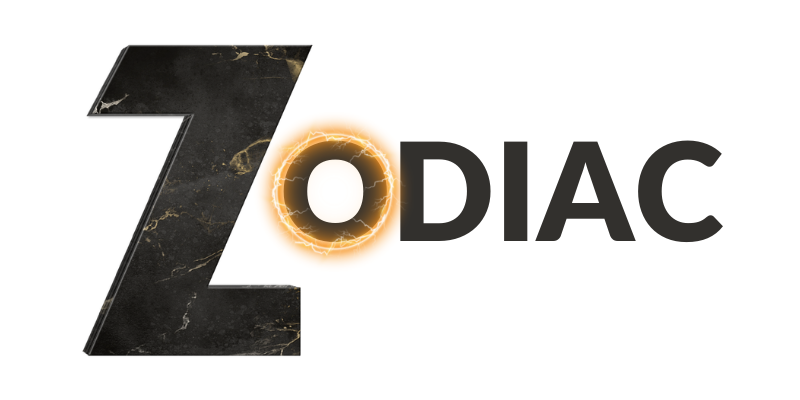
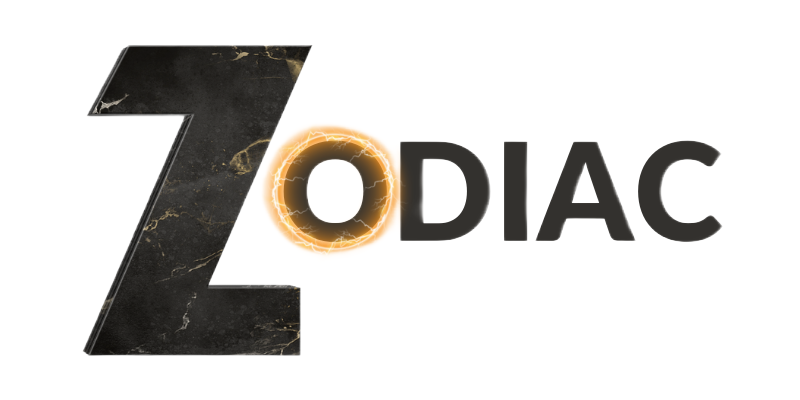
updated the designs

diff --git a/index.html b/index.html
@@ -6,106 +6,13 @@
     <link rel="stylesheet" href="style.css">
     <title>Zodiac</title>
     <style>
-        * {
-            box-sizing: border-box;
-            margin: 0;
-            padding: 0;
-            line-height: 1.5;
-            text-decoration: none;
-            list-style: none;
-            color: #ffffff;
-        }
-        body {
-            font-family: angie, sans-serif;
-            font-size: 1rem;
-            overflow-x: hidden;
-        }
-        /* Header */
-        .head-container {
-            background: url(image/background.jpg);
-            background-repeat: no-repeat;
-            background-position: center;
-            background-attachment: fixed;
-            background-size: cover;
-            min-height: 100vh;
-        }
-        .header {
-            display: flex;
-            justify-content: space-between;
-            align-items: center;
-            padding: 10px;
-            width: 90%;
-            margin: 0 auto;
-        }
-        .header ul {
-            display: flex;
-            justify-content: space-between;
-            align-items: center;
-        }
-        .header ul li {
-            margin-left: 20px;
-        }
-        .header ul li:first-child {
-            margin-left: 0;
-        }
-        .header ul li a:hover {
-            text-decoration: underline;
-            border: none;
-        }
-        #active {
-            text-decoration: underline;
-        }
-        /* Content Header */
-        .header-content {
-            display: flex;
-            flex-direction: column;
-            justify-content: center;
-            align-items: center;
-            text-align: center;
-            padding: 50px 20px;
-        }
-        .side-right img {
-            max-width: 100%;
-            width: 50%;
-            height: auto;
-            border-radius: 50%;
-        }
-        /* Footer */
-        .footer {
-            background-color: #525252;
-            border: 3px solid #ffffff;
-            padding: 20px 0;
-            text-align: center;
-        }
-        .foot {
-            display: flex;
-            flex-wrap: wrap;
-            justify-content: space-evenly;
-            align-items: center;
-            text-align: center;
-            max-width: 1200px;
-            margin: 0 auto;
-        }
-        .foot > div {
-            margin-bottom: 20px;
-        }
-        .foot span {
-            font-size: 2rem;
-        }
-        .foot p {
-            margin-top: 10px;
-        }
-        .smart, .fast, .perfect {
-            width: 300px;
-            max-width: 100%;
-            margin: 0 10px;
-        }
+        
     </style>
 </head>
 <body>
     <div class="head-container">
         <header class="header">
-            <img class="logo" src="image/ZODIAC.png" alt="ZODIAC" style="width: auto;height: 60px;object-fit: cover;">
+            <img class="logo" src="image/ZODIAC.png" alt="ZODIAC">
             <ul>
                 <li><a id="active" href="#">Home</a></li>
                 <li><a href="#">Portfolio</a></li>
@@ -118,8 +25,12 @@
             </div>
             <div class="side-left">
                 <p>Hi, I'm Christian</p>
-                <h1>I'm Professional Web/Software Developer & Wordpress Developer</h1>
-                <span>The pioneer of the past & future</span>
+                <h1>I'm a Professional Web/Software Developer & Wordpress Developer</h1>
+                <span>The pioneer of the past & the future</span>
+            </div>
+            <div class="extra-button">
+                <button>Hire Me</button>
+                <button>Download CV</button>
             </div>
         </div>
     </div>
@@ -136,6 +47,16 @@
             <div class="perfect">
                 <span>&#x26A1;</span>
                 <p>I possess the expertise and dedication to construct projects of flawless precision. With every endeavor, I strive for perfection, delivering results that exceed expectations.</p>
+            </div>
+        </div>
+        <div class="foot-image">
+            <div class="foot-img">
+                <img src="image/foot-image.jpg" alt="Working">
+            </div>
+            <div class="foot-service">
+                <span>My Services</span>
+                <h3>What do I do?</h3>
+                <p>I'f you'll hire me as your developer opr designer you will experience having a great developer and Professional projects for your business</p>
             </div>
         </div>
     </div>

diff --git a/style.css b/style.css
@@ -1,4 +1,133 @@
 @font-face {
     font-family: angie;
     src: url(fonts/angie.otf);
+}@font-face {
+    font-family: cortah;
+    src: url(fonts/crotah.ttf);
+}@font-face {
+    font-family: baufra;
+    src: url(fonts/baufra-medium.ttf);
 }
+* {
+    box-sizing: border-box;
+    margin: 0;
+    padding: 0;
+    line-height: 1.5;
+    text-decoration: none;
+    list-style: none;
+}
+body {
+    font-family: angie, sans-serif;
+    font-size: 1rem;
+    overflow-x: hidden;
+    color: #cfcece;
+}
+/* Header */
+.head-container {
+    background: url(image/background.jpg);
+    background-repeat: no-repeat;
+    background-position: center;
+    background-attachment: fixed;
+    background-size: cover;
+    min-height: 100vh;
+}
+.header {
+    display: flex;
+    justify-content: space-between;
+    align-items: center;
+    padding: 10px;
+    width: 90%;
+    margin: 0 auto;
+}
+.header ul {
+    display: flex;
+    justify-content: space-between;
+    align-items: center;
+}
+.header ul li {
+    margin-left: 50px;
+}
+.header ul li:first-child {
+    margin-left: 0;
+}.header ul li a{
+    color: #ffffff;
+}
+.header ul li a:hover {
+    text-decoration: underline;
+    border: none;
+}
+#active {
+    text-decoration: underline;
+}.logo{
+    width: auto;
+    height: 60px;
+    object-fit: cover;
+    background-color: #ffffff;
+    border-radius: 10px;
+}
+/* Content Header */
+.header-content {
+    display: flex;
+    flex-direction: column;
+    justify-content: center;
+    align-items: center;
+    text-align: center;
+    padding: 50px 20px;
+}
+.side-right img {
+    max-width: 100%;
+    width: 50%;
+    height: auto;
+    border-radius: 5px;
+}.side-left h1{
+    font-size: 35px;
+    color: #ffffff;
+}
+/* Footer */
+.footer {
+    background-color: #151515;
+    padding: 20px 0;
+    text-align: center;
+    color: #cfcece;
+    font-family: baufra;
+}
+.foot {
+    display: flex;
+    flex-wrap: wrap;
+    justify-content: space-evenly;
+    align-items: center;
+    text-align: center;
+    max-width: 1200px;
+    margin: 0 auto;
+}
+.foot > div {
+    margin-bottom: 20px;
+}
+.foot span {
+    font-size: 2rem;
+}
+.foot p {
+    margin-top: 10px;
+}
+.smart, .fast, .perfect {
+    width: 300px;
+    max-width: 100%;
+    margin: 0 10px;
+}.extra-button{
+    margin-top: 25px;
+}.extra-button > button{
+    font-size: 22px;
+    padding: 10px;
+    margin: 5px;
+    border: 2px solid #ffffff;
+    color: #ffffff;
+    background-color: #3C415C;
+    cursor: pointer;
+}.foot-image .foot-service p{
+    width: 300px;
+    margin: 0 auto;
+}.foot-image .foot-service h3{
+    color: #ffffff;
+}
+
+/* */
